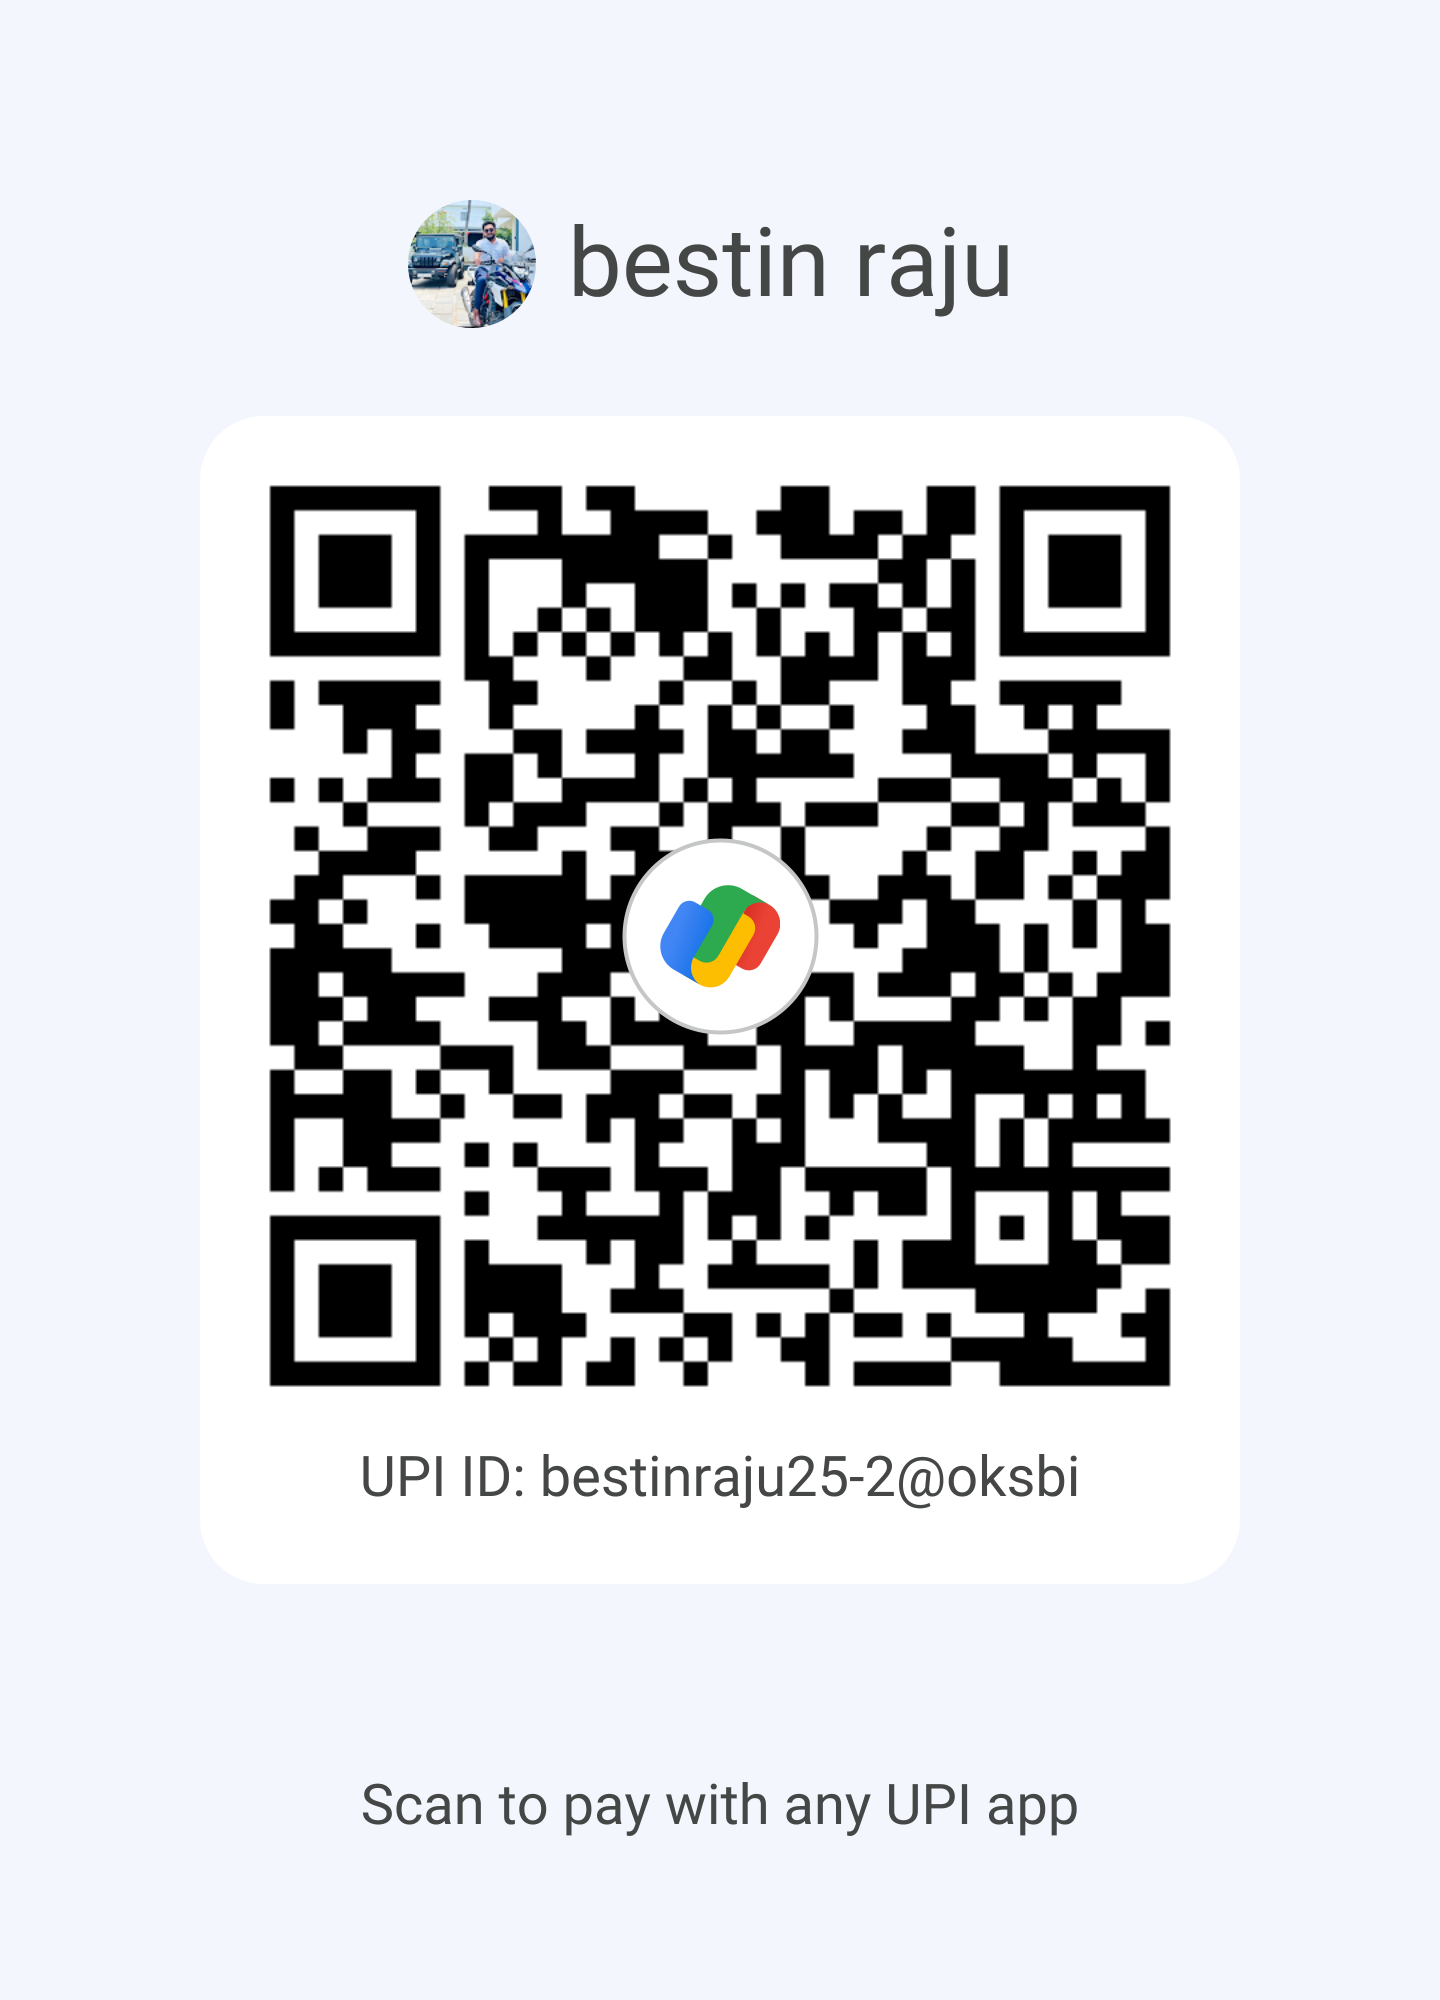
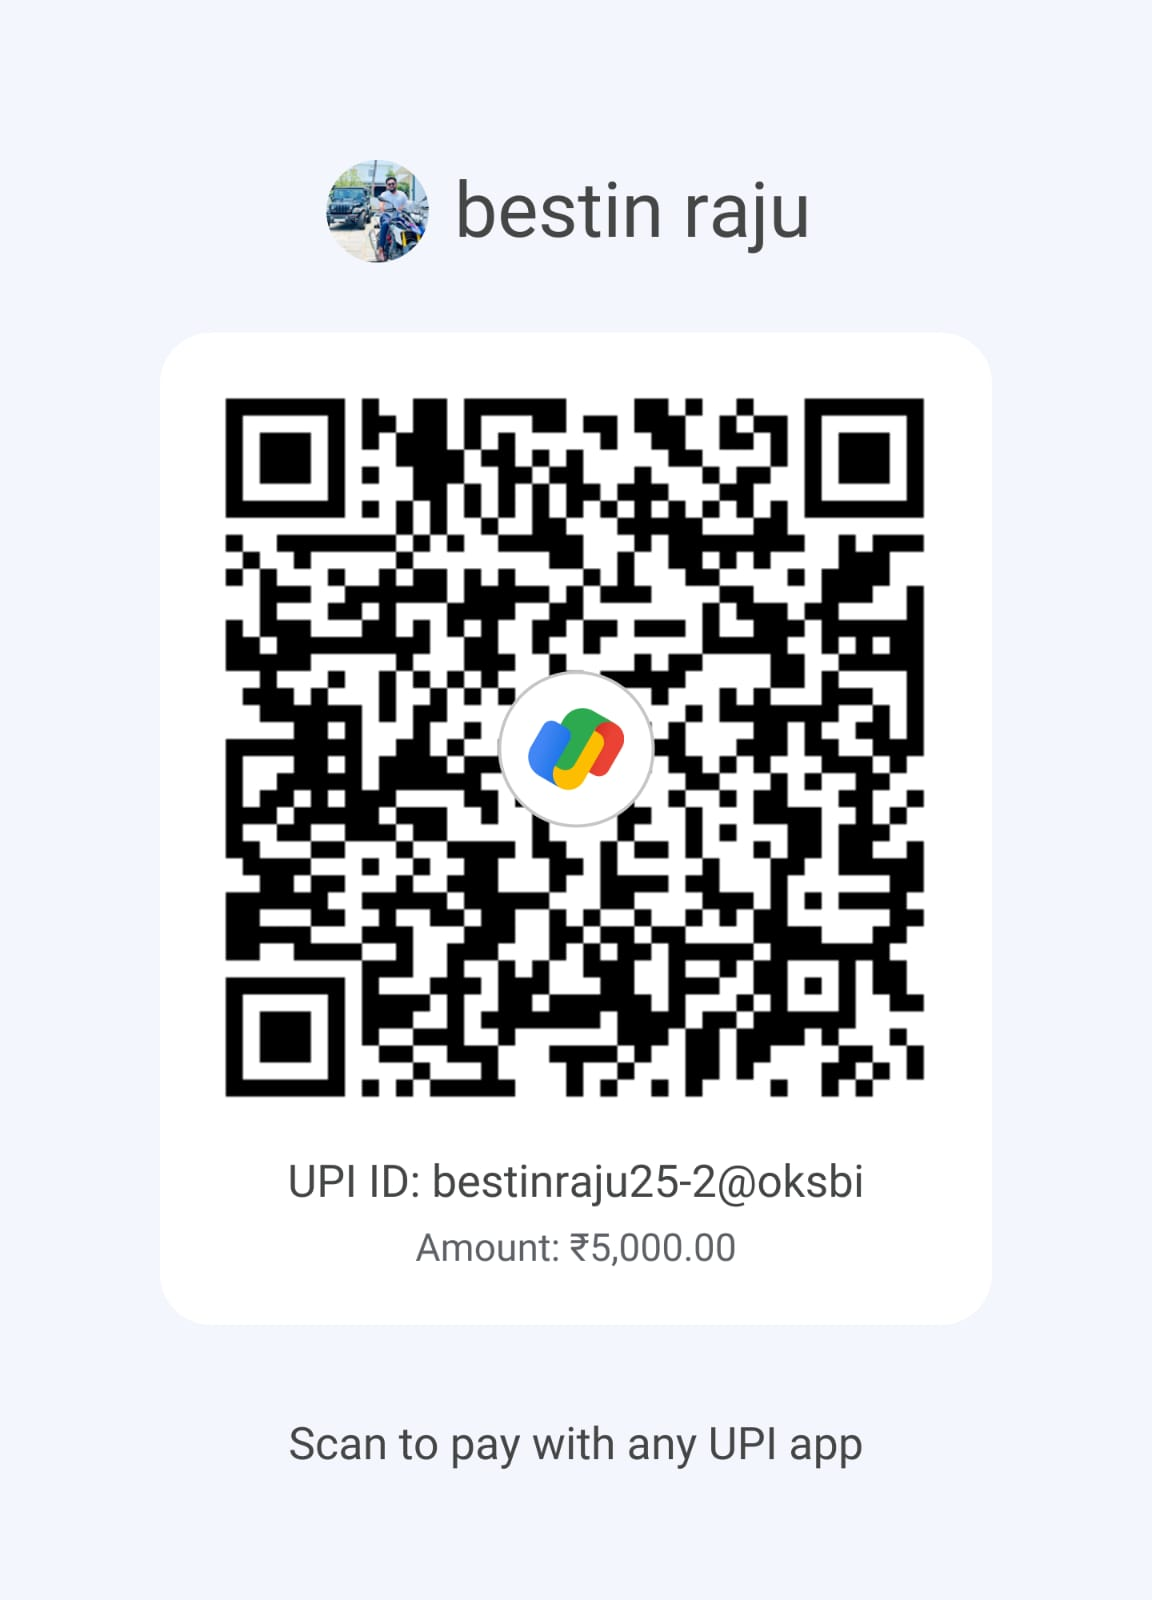
gpay

Changed region(s): [[0.1875, 0.2188, 0.8125, 0.7188], [0.5, 0.75, 0.625, 0.8125], [0.4062, 0.75, 0.4375, 0.8125]]

diff --git a/school-registration.js b/school-registration.js
@@ -200,8 +200,9 @@
       <div class="hptRegEyebrow">REGISTRATION PAYMENT</div>
       <h2 id="hptRegistrationTitle">Pay ₹5,000</h2>
       <p class="hptRegIntro">Scan the QR code using Google Pay, PhonePe, Paytm or any UPI app.</p>
-      <img class="hptPaymentQr" src="assets/gpay-payment-qr.png" alt="UPI QR code for payment to bestinraju25-2@oksbi">
+      <img class="hptPaymentQr" src="assets/gpay-payment-qr.png" alt="UPI QR code with ₹5,000 prefilled for payment to bestinraju25-2@oksbi">
       <div class="hptUpiId">UPI ID: <strong>bestinraju25-2@oksbi</strong></div>
+      <div class="hptFixedPaymentAmount">PAYMENT AMOUNT: <strong>₹5,000.00</strong> <span>Pre-filled in the QR code</span></div>
       <p class="hptPaymentReminder">After completing the payment, press the button below. Your registration will remain pending until the administrator checks the payment and enables the school.</p>
       <div id="hptRegistrationError" class="hptRegError" role="alert" hidden></div>
       <button id="hptPaymentCompleted" class="hptRegPrimary" type="button">PAYMENT COMPLETED <span>✓</span></button>`);

diff --git a/school-registration.css b/school-registration.css
@@ -43,3 +43,7 @@
 .hptRegForm select{width:100%;min-height:47px;padding:11px 13px;border:1px solid #355568;border-radius:10px;outline:none;background:#06131d;color:#f7fbfd;font:inherit;font-size:14px;appearance:auto}
 
 .hptInlineRecovery{display:inline;border:0;background:transparent;color:#ffd34d;text-decoration:underline;font:inherit;font-weight:900;padding:2px 3px;cursor:pointer}
+
+
+/* V120: emphasise the preset UPI amount shown by the QR */
+.hptFixedPaymentAmount{margin:12px auto 4px;padding:12px 14px;max-width:360px;text-align:center;border:1px solid rgba(16,43,66,.16);border-radius:12px;background:#f2f7fb;color:#23394b;font-size:14px;font-weight:800;letter-spacing:.02em}.hptFixedPaymentAmount strong{display:block;font-size:24px;color:#0b6542;margin:3px 0}.hptFixedPaymentAmount span{display:block;font-size:11px;font-weight:600;color:#6a7886;letter-spacing:0}
